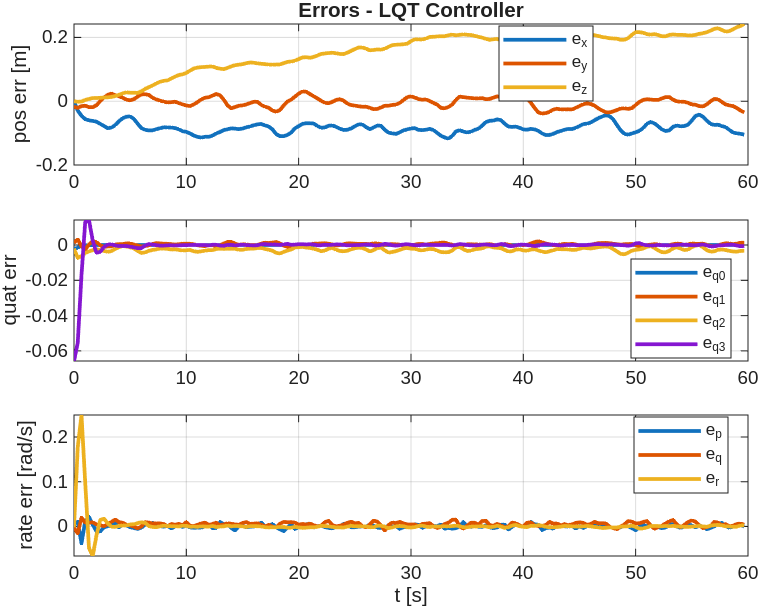
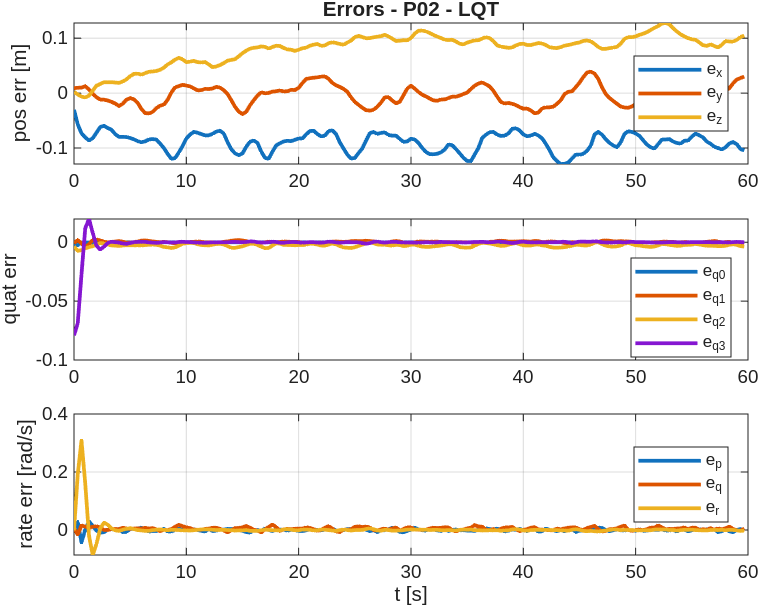
Add P02 and P05 report images; update P07 and P08b report images, add log note

diff --git a/MATLAB/GNC_Algorithms/Control/_report/log251130b_track.md b/MATLAB/GNC_Algorithms/Control/_report/log251130b_track.md
@@ -1,0 +1,243 @@
+## P02
+
+```
+>> run_P02_LQT
+Connecting to 127.0.1.1:8766...
+Connected to 127.0.1.1:8766
+State weight matrix Q as diag:
+    50     0     0
+     0     5     0
+     0     0    25
+
+    12     0     0
+     0     2     0
+     0     0     2
+
+    20     0     0     0
+     0    20     0     0
+     0     0    20     0
+     0     0     0    20
+
+     2     0     0
+     0     2     0
+     0     0     2
+
+Input weight matrix R as diag:
+     2     0     0     0
+     0     1     0     0
+     0     0     1     0
+     0     0     0     1
+
+Starting Simulation...
+Control mode: position
+Takeoff complete at 5.0m
+Switched to position control mode
+Starting manual control...
+Starting the LQT simulation...
+t=0.0s | pos=[-0.03,0.01,-5.00] err=[-0.03,0.01,0.00](0.03m) | vel=[0.02,0.01,-0.00] | | T=14.8N τ=[-0.019,-0.583,0.356]Nm
+t=8.3s | pos=[0.72,-0.01,-4.95] err=[-0.11,-0.01,0.05](0.12m) | vel=[0.10,0.01,0.01] | | T=14.9N τ=[0.013,-0.652,0.002]Nm
+t=16.7s | pos=[1.56,0.00,-4.92] err=[-0.11,0.00,0.08](0.14m) | vel=[0.10,0.01,0.00] | | T=15.0N τ=[-0.009,-0.651,0.002]Nm
+t=25.0s | pos=[2.38,-0.02,-4.90] err=[-0.12,-0.02,0.10](0.16m) | vel=[0.12,-0.00,0.01] | | T=15.1N τ=[0.022,-0.633,0.000]Nm
+t=33.3s | pos=[3.24,-0.01,-4.90] err=[-0.09,-0.01,0.10](0.13m) | vel=[0.12,0.01,0.00] | | T=15.1N τ=[0.009,-0.515,0.000]Nm
+t=41.7s | pos=[4.08,-0.03,-4.91] err=[-0.08,-0.03,0.09](0.13m) | vel=[0.10,0.01,-0.00] | | T=15.0N τ=[0.036,-0.532,-0.000]Nm
+t=50.0s | pos=[4.93,-0.02,-4.90] err=[-0.07,-0.02,0.10](0.13m) | vel=[0.09,0.01,-0.00] | | T=15.1N τ=[0.024,-0.503,0.001]Nm
+t=58.3s | pos=[5.74,0.01,-4.91] err=[-0.09,0.01,0.09](0.13m) | vel=[0.12,-0.00,0.00] | | T=15.0N τ=[-0.019,-0.518,-0.000]Nm
+Control log saved to: log_p02_lqt.mat
+
+=== Metrics (P02 - LQT) ===
+RMSE [ex, ey, ez] = [0.090, 0.018, 0.085] m
+RMSE of norm(e)       = 0.125 m
+Max err [ex, ey, ez] = [0.129, 0.039, 0.128] m
+Max of norm(e)        = 0.157 m
+
+Average control effort  mean of (u)   = 15.018
+Max control effort      max(u)    = 15.146
+Average thrust          mean(T)       = 15.008 N
+Max thrust              max(T)        = 15.137 N
+Average torque norm     mean(tau) = 0.541 Nm
+Max torque norm         max(tau)  = 0.684 Nm
+Average CPU time per step  = 0.0904 s
+Max CPU time per step      = 0.0998 s
+======================================
+
+```
+
+
+
+## P05
+
+```
+run_P05_LMPC_traj_multi
+Connecting to 127.0.1.1:8766...
+Connected to 127.0.1.1:8766
+State weight matrix Q as diag:
+    50     0     0
+     0     5     0
+     0     0    25
+
+    12     0     0
+     0     2     0
+     0     0     2
+
+    20     0     0     0
+     0    20     0     0
+     0     0    20     0
+     0     0     0    20
+
+     2     0     0
+     0     2     0
+     0     0     2
+
+Input weight matrix R as diag:
+     2     0     0     0
+     0     1     0     0
+     0     0     1     0
+     0     0     0     1
+
+Starting Simulation...
+Control mode: position
+Takeoff complete at 5.0m
+Switched to position control mode
+Starting control...
+Starting the P05 - LMPC simulation...
+t=0.0s | pos=[0.01,-0.02,-5.01] err=[0.01,-0.02,-0.01](0.03m) | vel=[-0.03,0.00,0.01] | | T=14.8N τ=[-0.003,-0.027,0.028]Nm
+| T_virt=14.8N τ_virt=[-0.003,-0.027,0.028]Nm | N=15 k_look=6 t_MPC=0.021s
+t=8.3s | pos=[0.87,0.00,-5.00] err=[0.04,0.00,0.00](0.04m) | vel=[0.09,0.01,-0.00] | | T=14.7N τ=[-0.002,-0.010,0.000]Nm
+| T_virt=14.7N τ_virt=[-0.002,-0.010,0.000]Nm | N=15 k_look=6 t_MPC=0.016s
+t=16.7s | pos=[1.66,0.01,-5.00] err=[-0.00,0.01,0.00](0.01m) | vel=[0.12,-0.00,0.00] | | T=14.7N τ=[-0.000,-0.007,0.000]Nm
+| T_virt=14.7N τ_virt=[-0.000,-0.007,0.000]Nm | N=15 k_look=6 t_MPC=0.015s
+t=25.0s | pos=[2.50,-0.00,-5.01] err=[0.00,-0.00,-0.01](0.01m) | vel=[0.10,-0.00,0.00] | | T=14.7N τ=[-0.000,-0.008,-0.000]Nm
+| T_virt=14.7N τ_virt=[-0.000,-0.008,-0.000]Nm | N=15 k_look=6 t_MPC=0.015s
+t=33.3s | pos=[3.37,-0.01,-5.00] err=[0.03,-0.01,0.00](0.04m) | vel=[0.10,-0.01,-0.00] | | T=14.7N τ=[-0.002,-0.008,0.000]Nm
+| T_virt=14.7N τ_virt=[-0.002,-0.008,0.000]Nm | N=15 k_look=6 t_MPC=0.015s
+t=41.7s | pos=[4.18,0.01,-5.00] err=[0.01,0.01,0.00](0.02m) | vel=[0.11,0.02,0.00] | | T=14.7N τ=[-0.002,-0.009,0.000]Nm
+| T_virt=14.7N τ_virt=[-0.002,-0.009,0.000]Nm | N=15 k_look=6 t_MPC=0.017s
+t=50.0s | pos=[4.99,0.01,-5.00] err=[-0.01,0.01,0.00](0.01m) | vel=[0.12,0.00,0.00] | | T=14.7N τ=[-0.001,-0.006,0.000]Nm
+| T_virt=14.7N τ_virt=[-0.001,-0.006,0.000]Nm | N=15 k_look=6 t_MPC=0.020s
+t=58.3s | pos=[5.85,0.00,-5.02] err=[0.01,0.00,-0.02](0.02m) | vel=[0.12,-0.03,0.01] | | T=14.7N τ=[-0.001,-0.009,-0.000]Nm
+| T_virt=14.7N τ_virt=[-0.001,-0.009,-0.000]Nm | N=15 k_look=6 t_MPC=0.011s
+Control log saved to: log_p05_lmpc.mat
+
+=== Metrics (P05 - LMPC Tracking (Multi Shooting)) ===
+RMSE [ex, ey, ez] = [0.023, 0.020, 0.008] m
+RMSE of norm(e)       = 0.031 m
+Max err [ex, ey, ez] = [0.083, 0.060, 0.020] m
+Max of norm(e)        = 0.084 m
+
+Average control effort  mean of (u)   = 14.716
+Max control effort      max(u)    = 14.787
+Average thrust          mean(T)       = 14.716 N
+Max thrust              max(T)        = 14.787 N
+Average torque norm     mean(tau) = 0.009 Nm
+Max torque norm         max(tau)  = 0.053 Nm
+Average CPU time per step  = 0.1081 s
+Max CPU time per step      = 0.1333 s
+======================================
+
+Connecting to 127.0.1.1:8766...
+Connected to 127.0.1.1:8766
+Switched to position control mode
+
+```
+
+
+## P07
+```
+>> run_P07_NMPC
+Connecting to 127.0.1.1:8766...
+Connected to 127.0.1.1:8766
+Starting Simulation...
+Control mode: position
+Takeoff complete at 5.0m
+Switched to position control mode
+Starting control...
+Starting the P07 - NMPC Single Shooting simulation...
+t=0.0s | pos=[-0.00,0.03,-5.00] err=[-0.00,0.03,-0.00](0.03m) | vel=[0.00,-0.01,0.01] | | T=14.7N τ=[0.000,-0.008,0.025]Nm
+| T_virt=14.7N τ_virt=[0.000,-0.008,0.025]Nm | N=15 k_look=6 t_MPC=0.078s
+t=8.3s | pos=[0.89,0.03,-5.01] err=[0.05,0.03,-0.01](0.06m) | vel=[0.10,-0.03,0.01] | | T=14.7N τ=[-0.000,0.009,-0.000]Nm
+| T_virt=14.7N τ_virt=[-0.000,0.009,-0.000]Nm | N=15 k_look=6 t_MPC=0.069s
+t=16.7s | pos=[1.70,0.01,-5.01] err=[0.03,0.01,-0.01](0.03m) | vel=[0.11,0.02,0.01] | | T=14.7N τ=[-0.000,0.009,-0.000]Nm
+| T_virt=14.7N τ_virt=[-0.000,0.009,-0.000]Nm | N=15 k_look=6 t_MPC=0.044s
+t=25.0s | pos=[2.54,0.00,-4.99] err=[0.04,0.00,0.01](0.04m) | vel=[0.09,-0.01,-0.00] | | T=14.7N τ=[-0.001,0.009,0.000]Nm
+| T_virt=14.7N τ_virt=[-0.001,0.009,0.000]Nm | N=15 k_look=6 t_MPC=0.042s
+t=33.3s | pos=[3.35,0.01,-5.00] err=[0.02,0.01,-0.00](0.02m) | vel=[0.11,-0.01,0.00] | | T=14.7N τ=[0.000,0.009,-0.000]Nm
+| T_virt=14.7N τ_virt=[0.000,0.009,-0.000]Nm | N=15 k_look=6 t_MPC=0.035s
+t=41.7s | pos=[4.21,0.00,-5.01] err=[0.04,0.00,-0.01](0.04m) | vel=[0.09,-0.01,0.01] | | T=14.7N τ=[-0.001,0.009,0.000]Nm
+| T_virt=14.7N τ_virt=[-0.001,0.009,0.000]Nm | N=15 k_look=6 t_MPC=0.039s
+t=50.0s | pos=[5.01,-0.00,-4.99] err=[0.01,-0.00,0.01](0.02m) | vel=[0.12,0.01,-0.01] | | T=14.7N τ=[-0.001,0.008,0.000]Nm
+| T_virt=14.7N τ_virt=[-0.001,0.008,0.000]Nm | N=15 k_look=6 t_MPC=0.038s
+t=58.3s | pos=[5.87,-0.03,-5.00] err=[0.04,-0.03,-0.00](0.05m) | vel=[0.09,0.01,0.00] | | T=14.7N τ=[-0.001,0.008,0.000]Nm
+| T_virt=14.7N τ_virt=[-0.001,0.008,0.000]Nm | N=15 k_look=6 t_MPC=0.048s
+Control log saved to: log_p07_nmpc.mat
+
+=== Metrics (P07 - NMPC Single Shooting) ===
+RMSE [ex, ey, ez] = [0.029, 0.016, 0.008] m
+RMSE of norm(e)       = 0.034 m
+Max err [ex, ey, ez] = [0.056, 0.038, 0.024] m
+Max of norm(e)        = 0.063 m
+
+Average control effort  mean of (u)   = 14.715
+Max control effort      max(u)    = 14.728
+Average thrust          mean(T)       = 14.715 N
+Max thrust              max(T)        = 14.728 N
+Average torque norm     mean(tau) = 0.009 Nm
+Max torque norm         max(tau)  = 0.038 Nm
+Average CPU time per step  = 0.1405 s
+Max CPU time per step      = 0.1977 s
+======================================
+
+Connecting to 127.0.1.1:8766...
+Connected to 127.0.1.1:8766
+Switched to position control mode
+
+```
+
+
+# P08b
+```
+>> run_P08b_traj_multi
+Connecting to 127.0.1.1:8766...
+Connected to 127.0.1.1:8766
+Starting Simulation...
+Control mode: position
+Takeoff complete at 5.0m
+Switched to position control mode
+Starting NMPC tracking control...
+Starting the P08b - NMPC Tracking (Multi Shooting) simulation...
+t=0.0s | pos=[-0.04,-0.01,-4.99] err=[-0.04,-0.01,0.01](0.04m) | vel=[0.00,-0.01,-0.01] | | T=14.7N τ=[0.000,-0.008,0.027]Nm
+| T_virt=14.7N τ_virt=[0.000,-0.008,0.027]Nm | N=15 k_look=6 t_MPC=0.021s
+t=8.3s | pos=[0.87,0.01,-5.00] err=[0.03,0.01,0.00](0.04m) | vel=[0.11,0.01,-0.01] | | T=14.7N τ=[-0.000,0.010,-0.000]Nm
+| T_virt=14.7N τ_virt=[-0.000,0.010,-0.000]Nm | N=15 k_look=6 t_MPC=0.019s
+t=16.7s | pos=[1.70,-0.01,-5.00] err=[0.03,-0.01,-0.00](0.03m) | vel=[0.09,0.00,-0.00] | | T=14.7N τ=[-0.001,0.009,-0.000]Nm
+| T_virt=14.7N τ_virt=[-0.001,0.009,-0.000]Nm | N=15 k_look=6 t_MPC=0.021s
+t=25.0s | pos=[2.49,0.00,-5.01] err=[-0.01,0.00,-0.01](0.01m) | vel=[0.12,0.01,0.01] | | T=14.7N τ=[-0.000,0.009,0.000]Nm
+| T_virt=14.7N τ_virt=[-0.000,0.009,0.000]Nm | N=15 k_look=6 t_MPC=0.018s
+t=33.3s | pos=[3.38,0.04,-5.01] err=[0.05,0.04,-0.01](0.07m) | vel=[0.09,-0.02,0.01] | | T=14.7N τ=[-0.001,0.010,0.000]Nm
+| T_virt=14.7N τ_virt=[-0.001,0.010,0.000]Nm | N=15 k_look=6 t_MPC=0.017s
+t=41.7s | pos=[4.23,-0.03,-5.00] err=[0.06,-0.03,-0.00](0.07m) | vel=[0.07,-0.00,0.01] | | T=14.7N τ=[-0.001,0.009,0.000]Nm
+| T_virt=14.7N τ_virt=[-0.001,0.009,0.000]Nm | N=15 k_look=6 t_MPC=0.022s
+t=50.0s | pos=[5.00,0.00,-4.99] err=[-0.00,0.00,0.01](0.01m) | vel=[0.10,0.01,-0.01] | | T=14.7N τ=[-0.001,0.008,-0.000]Nm
+| T_virt=14.7N τ_virt=[-0.001,0.008,-0.000]Nm | N=15 k_look=6 t_MPC=0.018s
+t=58.3s | pos=[5.85,0.00,-5.00] err=[0.01,0.00,0.00](0.01m) | vel=[0.11,-0.01,0.00] | | T=14.7N τ=[-0.001,0.009,0.000]Nm
+| T_virt=14.7N τ_virt=[-0.001,0.009,0.000]Nm | N=15 k_look=6 t_MPC=0.020s
+Control log saved to: log_p08b_nmpc.mat
+
+=== Metrics (P08b - NMPC Tracking (Multi Shooting)) ===
+RMSE [ex, ey, ez] = [0.037, 0.015, 0.007] m
+RMSE of norm(e)       = 0.041 m
+Max err [ex, ey, ez] = [0.094, 0.043, 0.019] m
+Max of norm(e)        = 0.094 m
+
+Average control effort  mean of (u)   = 14.717
+Max control effort      max(u)    = 14.731
+Average thrust          mean(T)       = 14.717 N
+Max thrust              max(T)        = 14.731 N
+Average torque norm     mean(tau) = 0.010 Nm
+Max torque norm         max(tau)  = 0.045 Nm
+Average CPU time per step  = 0.1099 s
+Max CPU time per step      = 0.1259 s
+======================================
+
+```
+
+
